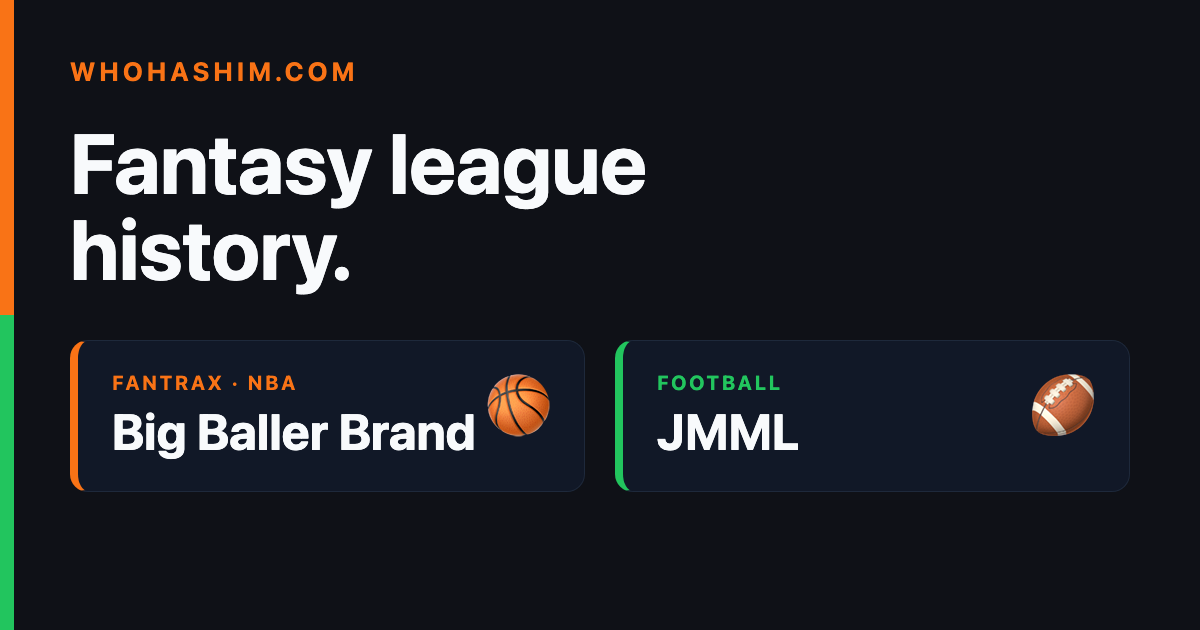
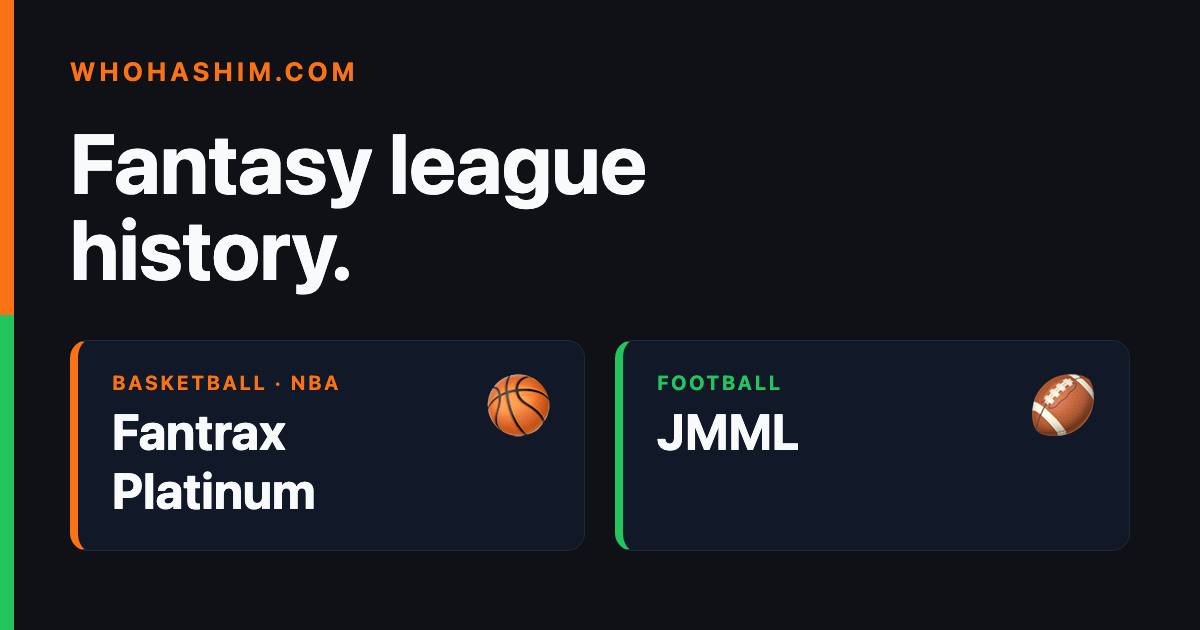
Rename NBA league card to Fantrax Platinum

Changed region(s): [[0.0925, 0.573, 0.4008, 0.7238], [0.0308, 0.754, 0.2775, 0.8746], [0.4933, 0.754, 0.5242, 0.8746]]

diff --git a/index.html b/index.html
@@ -4,12 +4,12 @@
 <meta charset="UTF-8">
 <meta name="viewport" content="width=device-width, initial-scale=1.0">
 <title>whohashim.com | Fantasy League History</title>
-<meta name="description" content="League history for two fantasy leagues: Big Baller Brand (Fantrax NBA) and JMML (Football).">
+<meta name="description" content="League history for two fantasy leagues: Fantrax Platinum (NBA) and JMML (Football).">
 <meta name="theme-color" content="#0c0f18">
 <meta property="og:type" content="website">
 <meta property="og:site_name" content="whohashim.com">
 <meta property="og:title" content="whohashim.com | Fantasy League History">
-<meta property="og:description" content="Pick a league: Big Baller Brand (Fantrax NBA) or JMML (Football).">
+<meta property="og:description" content="Pick a league: Fantrax Platinum (NBA) or JMML (Football).">
 <meta property="og:url" content="https://whohashim.com/">
 <meta property="og:image" content="https://whohashim.com/og.png">
 <meta property="og:image:width" content="1200">
@@ -48,8 +48,8 @@ h2 { font-size: 28px; margin: 6px 0 10px; }
   <div class="cards">
     <a class="card nba" href="https://fantrax.whohashim.com/">
       <div class="icon" aria-hidden="true">🏀</div>
-      <div class="sport">Fantrax · NBA</div>
-      <h2>Big Baller Brand</h2>
+      <div class="sport">Basketball · NBA</div>
+      <h2>Fantrax Platinum</h2>
       <p class="desc">All-time standings, weekly recaps, rivalries, and a Who Has Him tracker for every player ever drafted.</p>
       <div class="go">Open the NBA league <span>→</span></div>
       <div class="host">fantrax.whohashim.com</div>
